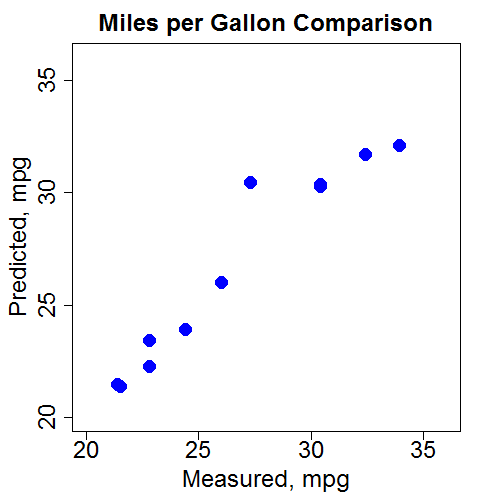
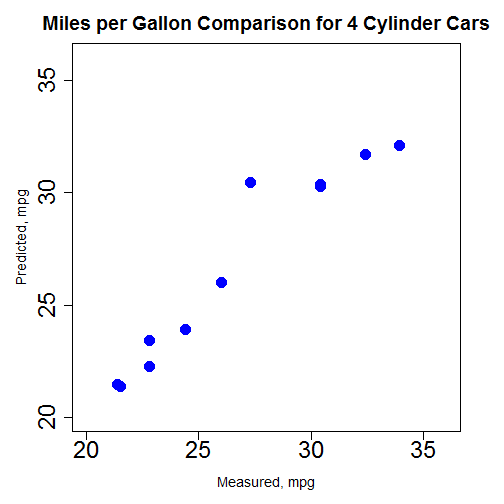
documentation link and cleanup.

Changed region(s): [[0.0595, 0.0298, 0.9821, 0.0893], [0.3571, 0.9226, 0.7143, 0.9821], [0.0, 0.2976, 0.0595, 0.625]]

diff --git a/DataProduct.md b/DataProduct.md
@@ -1,56 +1,56 @@
-Dynamic Display of Plots using mtcars Dataset
+Dynamic Display of Plots using mtcars Data Set
 ===
 author: Nigusseba
-date: Tue Jun 21 22:31:51 2016
+date: Sun Jul 03 11:43:29 2016
 width: 1440
 height: 900
 font-family: 'Helvetica'
 
-Overview of Shiny Datae Product
+Overview of Shiny Data Product
 ===
 transition: rotate
-This project demonstrates dynamic prediction of fuel consumptions of motor vehicles in ***mpg*** for number of cylinders selected by users. The prediction model uses motor vehicles performance data set **mtcars** available in RStudio. The shiny data product demonstrates the following capabilities:
+This project demonstrates dynamic prediction of fuel consumption of motor vehicles in ***mpg*** for number of cylinders selected by users. The prediction model uses motor vehicles performance data set **mtcars** available in R Studio. The shiny data product demonstrates the following capabilities:
 
-- Select the number of cyclinders
-- Dynamically subset the **mtcars** dataset
-- Dynamicaly generate linear model
-- Dynamiclly updates plots
+- Select number of cylinders
+- Dynamically subset the **mtcars** data set
+- Dynamically generate linear model
+- Dynamically update plots
 
-Dynamically Subset DataSet and Fit Model
+Dynamically Subset Data Set and Fit Model
 ===
-Shiny server dynamically subsets the *mtcars* dataset for a the number of cycliners specified. The number of cyclinders choices available are 4, 6, or 8. The radio buttons are used to switch between the number of cyclinders. The default choice is 4. The reactive function allow dynamically updating the dataset as shown in the psudo code below.
+Shiny server dynamically subsets the *mtcars* data set for the number of cylinders specified. The number of cylinders choices available are 4, 6, or 8. The radio buttons are used to dynamically switch between the number of cylinders. The default choice is 4. The reactive function allow dynamically updating the sub data set for the selected number of cylinders as shown in the pseudo code below.
 
 
 ```r
 NumOfCylinders <- reactive({
-NumberOfCylinders <- as.numeric(input$nCyl)
+NumberOfCylinders <- as.numeric(input$nCyl) # update number of cylinders
 return(NumberOfCylinders) })
 ```
 
 
 ```r
 mydf <- reactive({
-subset(mtcars, mtcars$cyl==NumOfCylinders()) })
+subset(mtcars, mtcars$cyl==NumOfCylinders()) }) # update subset data
 ```
 
-The model predicts fuel consumption of motor vehicles in *mpg* for the number of cycliners selected using linear regression model and displays the result as a plot dynamically. A reactive function is used to update the linear model whenever the user clickes the radio button.
+The linear model predicts fuel consumption of motor vehicles in *mpg* for the number of cylinders selected using linear regression fit and displays the result as a plot dynamically. A reactive function is used to update the linear model whenever the user switches the number cylinders using the radio button.
 
 
 ```r
 lmFit <- reactive({
-regress.exp <- "mpg ~ ."
-lm(regress.exp, data=mydf()) })
+regressionModelExp <- "mpg ~ ." # linear model expression
+lm(regressionModelExp, data=mydf()) }) # update the linear model
 ```
 
-Predicted MPG Plot for 4 Cyliners Cars
+Predicted MPG Plot for 4 Cylinders Cars
 ===
-Scatter plot of predicted and measured fuel consumption for 4 cylinder cars. If you select the **Four Cyclinders** radio button, then you should be able to reproduce the plot shown below.
+Scatter plot of predicted and measured fuel consumption for 4 cylinder cars. If you select the **Four Cylinders** radio button, then you should be able to reproduce the plot shown below.
 
 <img src="DataProduct-figure/unnamed-chunk-4-1.png" title="plot of chunk unnamed-chunk-4" alt="plot of chunk unnamed-chunk-4" style="display: block; margin: auto;" />
 
-Residual MPG Plot for 4 Cyliners Cars
+Residual MPG Plot for 4 Cylinder Cars
 ===
-Residual *mpg* against predicted fuel consumption is shown for 4 cyclder cars. If you run the model and select the *Four Cylinders* and check the *Show Residual Plot* checkbox, then you should able to reproduce the plot shwon below. You may click the checkbox *Show Residual Plot* to display or remove the residual plot.
+Residual *mpg* against predicted fuel consumption is shown for 4 cyclder cars. If you run the model and select the *Four Cylinders* and check the *Show Residual Plot* check-box, then you should able to reproduce the plot shown below. You may click the check box *Show Residual Plot* to display or remove the residual plot.
 
 
 <img src="DataProduct-figure/unnamed-chunk-5-1.png" title="plot of chunk unnamed-chunk-5" alt="plot of chunk unnamed-chunk-5" style="display: block; margin: auto;" />

diff --git a/README.md b/README.md
@@ -1,4 +1,72 @@
-# DataProduct
-## Shiny Application here: https://nigusseba.shinyapps.io/DataProduct/
-## Shiny Presentation here: https://bnigusse.github.io/DataProduct/DataProduct.html#/
-## Github Repository here: https://github.com/bnigusse/DataProduct/tree/gh-pages
+# Dynamic Display of Plots using mtcars Data Set
+
+Link to shiny product app, presentation and github repository:
+
+Shiny Application here: (https://nigusseba.shinyapps.io/DataProduct/). This link will take you to the shiny application web site.
+
+Shiny Presentation here: (https://bnigusse.github.io/DataProduct/DataProduct.html#/). This link will take you to the data product pressentation web site.
+
+Github Repository here: (https://github.com/bnigusse/DataProduct/tree/gh-pages). This link will take you to the github repository of this data product application.
+
+### Overview of Shiny Data Product
+This project demonstrates dynamic prediction of fuel consumption of motor vehicles in ***mpg*** for number of cylinders selected by users. The prediction model uses motor vehicles performance data set **mtcars** available in R Studio. The shiny data product demonstrates the following capabilities:
+
+- Select number of cylinders
+- Dynamically subset the **mtcars** data set
+- Dynamically generate linear model
+- Dynamically update plots
+
+### Dynamically Subset Data Set and Fit Model
+Shiny server dynamically subsets the *mtcars* data set for the number of cylinders specified. The number of cylinders choices available are 4, 6, or 8. The radio buttons are used to dynamically switch between the number of cylinders. The default choice is 4. The reactive function allow dynamically updating the sub data set for the selected number cylinders as shown in the pseudo code below.
+
+```
+NumOfCylinders <- reactive({
+NumberOfCylinders <- as.numeric(input$nCyl) # update number of cylinders
+return(NumberOfCylinders) })
+```
+
+```
+mydf <- reactive({
+subset(mtcars, mtcars$cyl==NumOfCylinders()) }) # update subset data
+```
+
+The linear model predicts fuel consumption of motor vehicles in *mpg* for the number of cylinders selected using linear regression fit and displays the result as a plot dynamically. A reactive function is used to update the linear model whenever the user switches the number cylinders using the radio button.
+
+```
+lmFit <- reactive({
+regressionModelExp <- "mpg ~ ." # linear model expression
+lm(regressionModelExp, data=mydf()) }) # update the linear model
+```
+
+### Predicted MPG Plot for 4 Cylinder Cars
+Scatter plot of predicted and measured fuel consumption for 4 cylinder cars. If you select the **Four Cylinder** radio button, then you should be able to reproduce the plot shown in the R presentation slides.
+
+```
+library(UsingR)
+data(mtcars)
+par(mfrow=c(1,1), cex.main=1.6, cex.lab=1.2, cex.axis=2, mar=c(5,5,3,3))
+mydf <- subset(mtcars, mtcars$cyl == 4)
+lmFit <- lm(mpg ~ ., data=mydf)
+predicted <- predict(lmFit)
+plot(predicted ~ mydf$mpg, 
+main="Miles per Gallon Comparison for 4 Cylinder Cars", 
+xlab="Measured, mpg", ylab="Predicted, mpg", pch=16,
+col="blue", bg="blue", cex=2.0, xlim=c(20, 36), ylim=c(20, 36)) 
+```
+
+### Residual MPG Plot for 4 Cylinder Cars
+Residual *mpg* against predicted fuel consumption is shown for 4 cylinder cars. If you run the model and select the *Four Cylinders* and check the *Show Residual Plot* check-box, then you should able to reproduce the plot shown in the R presentation slides. You may click the check-box *Show Residual Plot* to display or remove the residual plot.
+
+
+```
+library(UsingR)
+data(mtcars)
+par(mfrow=c(1,1), cex.main=1.6, cex.lab=1.2, cex.axis=2, mar=c(4,5,2,2))
+mydf <- subset(mtcars, mtcars$cyl == 4)
+lmFit <- lm(mpg ~ ., data=mydf)
+predicted <- predict(lmFit)
+residual <- mydf$mpg - predicted
+plot(residual ~ predicted, 
+main="Residuals versus Predicted for 4 Cylinder Cars", xlab="Predicted, mpg", 
+ylab="Residuals, mpg",pch=16, col="blue", bg="blue", cex=2.0, xlim=c(20, 36), ylim=c(-4, 4))
+```
